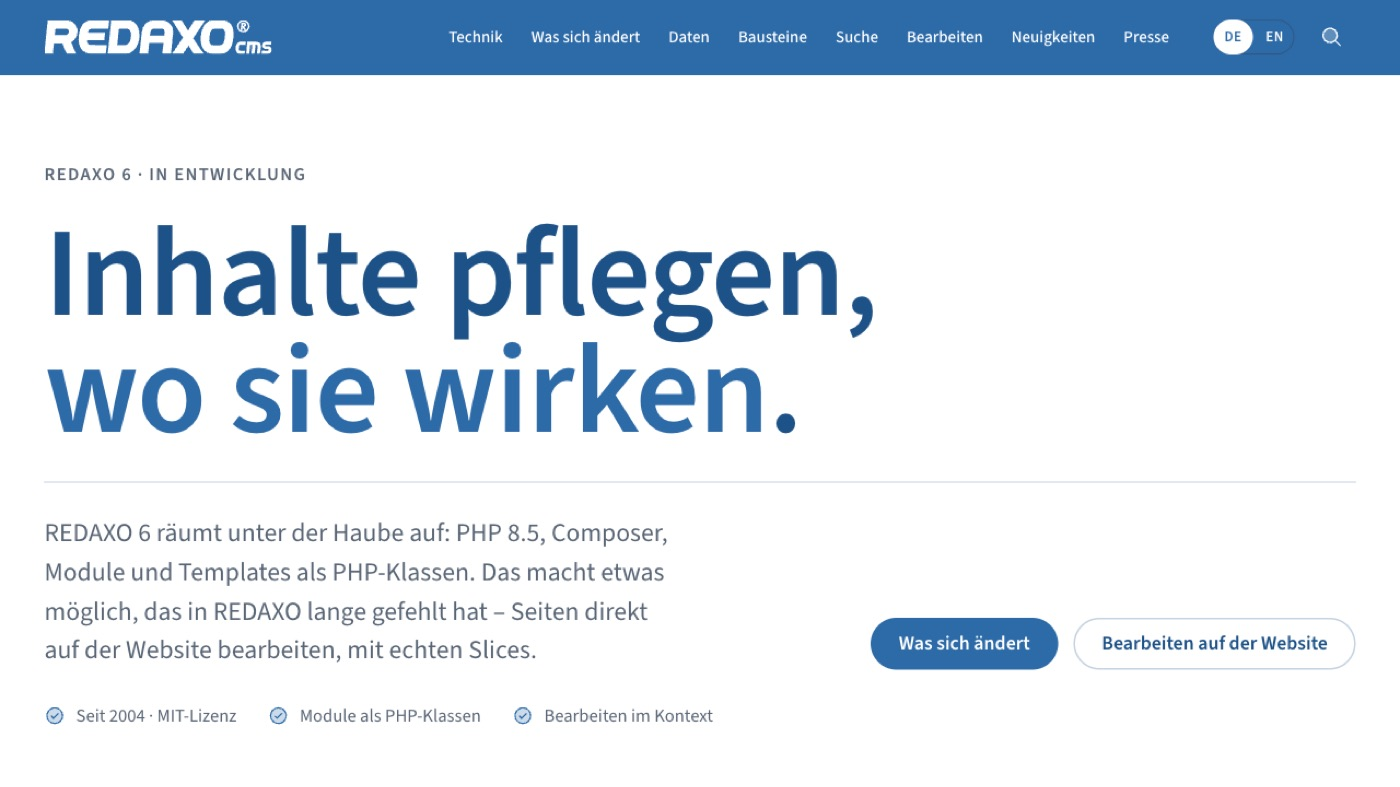
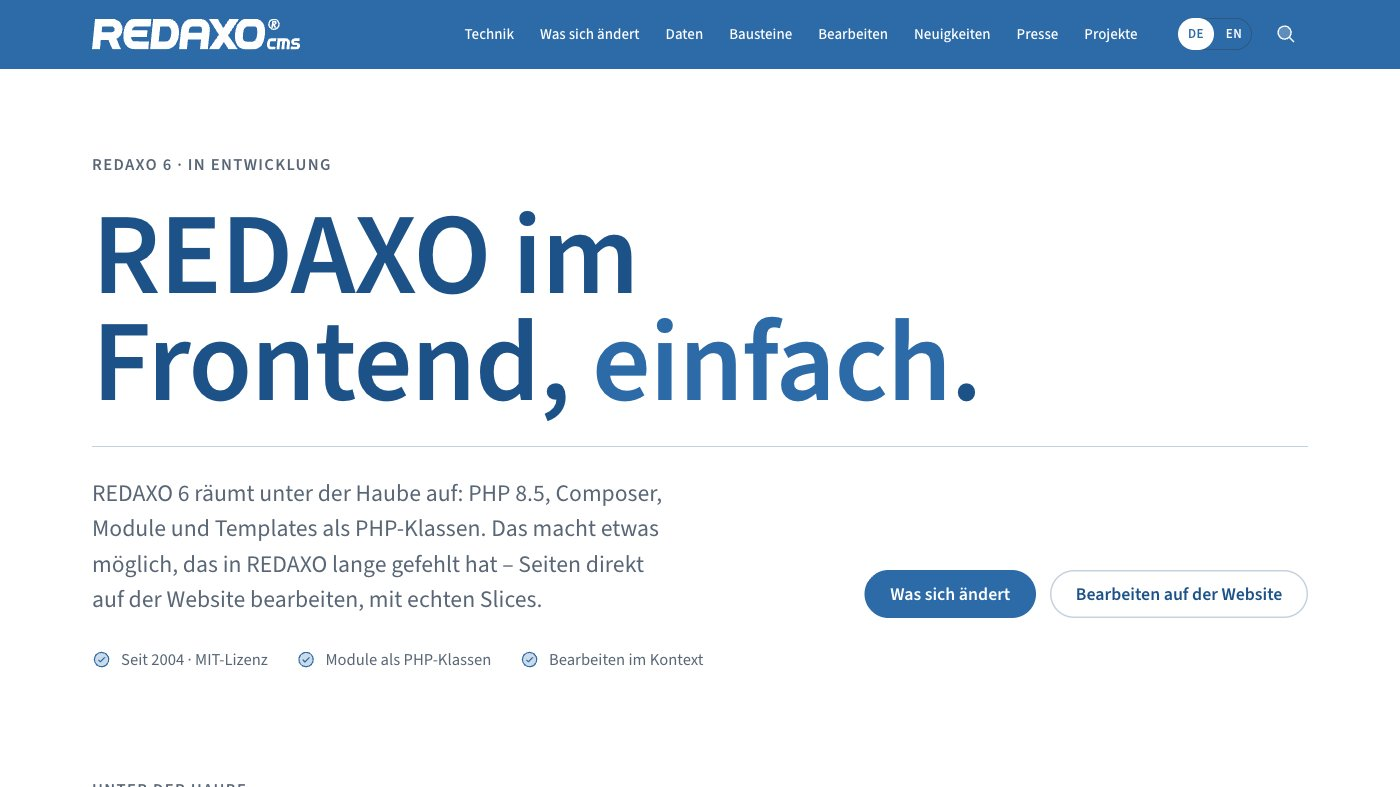
Demo: Überschrift „REDAXO im Frontend, einfach.“, Screenshot neu

diff --git a/kits/fluid/demo-redaxo6.php b/kits/fluid/demo-redaxo6.php
@@ -71,7 +71,7 @@ $yform = [
 return [
     'yform' => $yform,
     // Website-Einstellungen (nur, wo noch nichts eingetragen ist)
-    'settings' => ['org_name' => 'REDAXO 6 Demo', 'tagline' => 'Inhalte pflegen, wo sie wirken.', 'search_page' => '/suche'],
+    'settings' => ['org_name' => 'REDAXO 6 Demo', 'tagline' => 'REDAXO im Frontend, einfach.', 'search_page' => '/suche'],
     'pages' => [
         // ------------------------------------------------------------------ Startseite
         [
@@ -79,7 +79,7 @@ return [
             'blocks' => [
                 ['type' => 'hero', 'data' => [
                     'variant' => 'type', 'eyebrow' => 'REDAXO 6 · in Entwicklung',
-                    'title' => 'Inhalte pflegen, *wo sie wirken*.',
+                    'title' => 'REDAXO im Frontend, *einfach*.',
                     'text' => 'REDAXO 6 räumt unter der Haube auf: PHP 8.5, Composer, Module und Templates als PHP-Klassen. Das macht etwas möglich, das in REDAXO lange gefehlt hat – Seiten direkt auf der Website bearbeiten, mit echten Slices.',
                     'button_label' => 'Was sich ändert', 'button_link' => '/was-sich-aendert',
                     'button2_label' => 'Bearbeiten auf der Website', 'button2_link' => '/bearbeiten',
